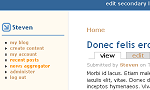
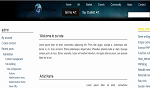
saw theme, v3.10.2011
git-svn-id: https://mycognitive.unfuddle.com/svn/mycognitive_arts/trunk@115 2260b2a0-9455-4d21-9559-270ed330a898

diff --git a/themes/pushbutton/ie.css b/themes/pushbutton/ie.css
@@ -109,6 +109,7 @@ td#home a:hover img, td#home a:link img, td#home a:visited img {
 .secondary-links, .secondary-links a:link, .secondary-links a:visited {
   color: #fdfdfd;
   padding: 4px;
+  font-size: 0.9em;
 }
 .secondary-links a:hover {
   background: #111;
@@ -527,7 +528,7 @@ div.admin-panel h3 {
   margin: 0;
 }
 div.admin-panel .body {
-  background: #fdfdfd;
+  background: #fffaf0;
 }
 
 /*

diff --git a/themes/pushbutton/page.tpl.php b/themes/pushbutton/page.tpl.php
@@ -2,13 +2,14 @@
 // $Id: page.tpl.php,v 1.25.2.2 2009/04/30 00:13:31 goba Exp $
 ?><!DOCTYPE html PUBLIC "-//W3C//DTD XHTML 1.0 Transitional//EN" "http://www.w3.org/TR/xhtml1/DTD/xhtml1-transitional.dtd">
 <html xmlns="http://www.w3.org/1999/xhtml" lang="<?php print $language->language ?>" xml:lang="<?php print $language->language ?>" dir="<?php print $language->dir ?>">
-<head>
-  <meta http-equiv="Content-Style-Type" content="text/css" />
-  <?php print $head ?>
-  <title><?php print $head_title ?></title>
-  <?php print $styles ?>
-  <?php print $scripts ?>
-</head>
+  <head>
+    <title>
+         <?php print $head_title; ?>
+    </title>
+    <?php print $head; ?>
+    <?php print $styles; ?>
+    <?php print $scripts; ?>
+  </head>
 
 <body>
 
@@ -16,38 +17,23 @@
 
 <table id="primary-menu" summary="Navigation elements." border="0" cellpadding="0" cellspacing="0" width="100%">
   <tr>
-    <td id="home" width="10%">
+    <td id="home" width="30%" rowspan="2">
       <?php if ($logo) : ?>
         <a href="<?php print $front_page ?>" title="<?php print t('Home') ?>"><img src="<?php print($logo) ?>" alt="<?php print t('Home') ?>" border="0" /></a>
       <?php endif; ?>
     </td>
-
-    <td id="site-info" width="20%">
-      <?php if ($site_name) : ?>
-        <div class='site-name'><a href="<?php print $front_page ?>" title="<?php print t('Home') ?>"><?php print($site_name) ?></a></div>
-      <?php endif;?>
-      <?php if ($site_slogan) : ?>
-        <div class='site-slogan'><?php print($site_slogan) ?></div>
-      <?php endif;?>
-    </td>
-    <td class="primary-links" width="70%" align="center" valign="middle">
+    <td class="primary-links" width="70%" valign="middle" colspan="2">
       <?php print theme('links', $primary_links, array('class' => 'links', 'id' => 'navlist')) ?>
     </td>
-  </tr>
-</table>
-
-<table id="secondary-menu" summary="Navigation elements." border="0" cellpadding="0" cellspacing="0" width="100%">
-  <tr>
-    <td class="secondary-links" width="75%"  align="center" valign="middle">
+   </tr>
+    <tr>
+		<td class="secondary-links" width="50%" valign="middle">
       <?php print theme('links', $secondary_links, array('class' => 'links', 'id' => 'subnavlist')) ?>
-    </td>
-    <td width="25%" align="center" valign="middle">
+      </td>
+      <td td class="search-box" valign="middle" width="20%">
       <?php print $search_box ?>
-    </td>
-  </tr>
-  <tr>
-    <td colspan="2"><div><?php print $header ?></div></td>
-  </tr>
+	  </td>
+    </tr>
 </table>
 
 <table id="content" border="0" cellpadding="15" cellspacing="0" width="100%">
@@ -97,24 +83,32 @@
   </tr>
 </table>
 
+<table id="footer" border="0" cellpadding="0" cellspacing="0" width="100%" height="158px">
+<tr>
+<td rowspan="2" width="20%">	
+</td>
+<td rowspan="2" width="30%">
 <table id="footer-menu" summary="Navigation elements." border="0" cellpadding="0" cellspacing="0" width="100%">
   <tr>
     <td align="center" valign="middle">
     <?php if (isset($primary_links)) : ?>
       <?php print theme('links', $primary_links, array('class' => 'links primary-links')) ?>
     <?php endif; ?>
+    </td> 
+    <td>
     <?php if (isset($secondary_links)) : ?>
       <?php print theme('links', $secondary_links, array('class' => 'links secondary-links')) ?>
     <?php endif; ?>
     </td>
   </tr>
 </table>
-
+</td><td id="flogo" width="50%" height="90px"></td></tr>
+<tr><td>
 <?php if ($footer_message || $footer) : ?>
 <div id="footer-message">
     <?php print $footer_message . $footer;?>
 </div>
 <?php endif; ?>
-<?php print $closure;?>
+</td></tr></table>
 </body>
 </html>
